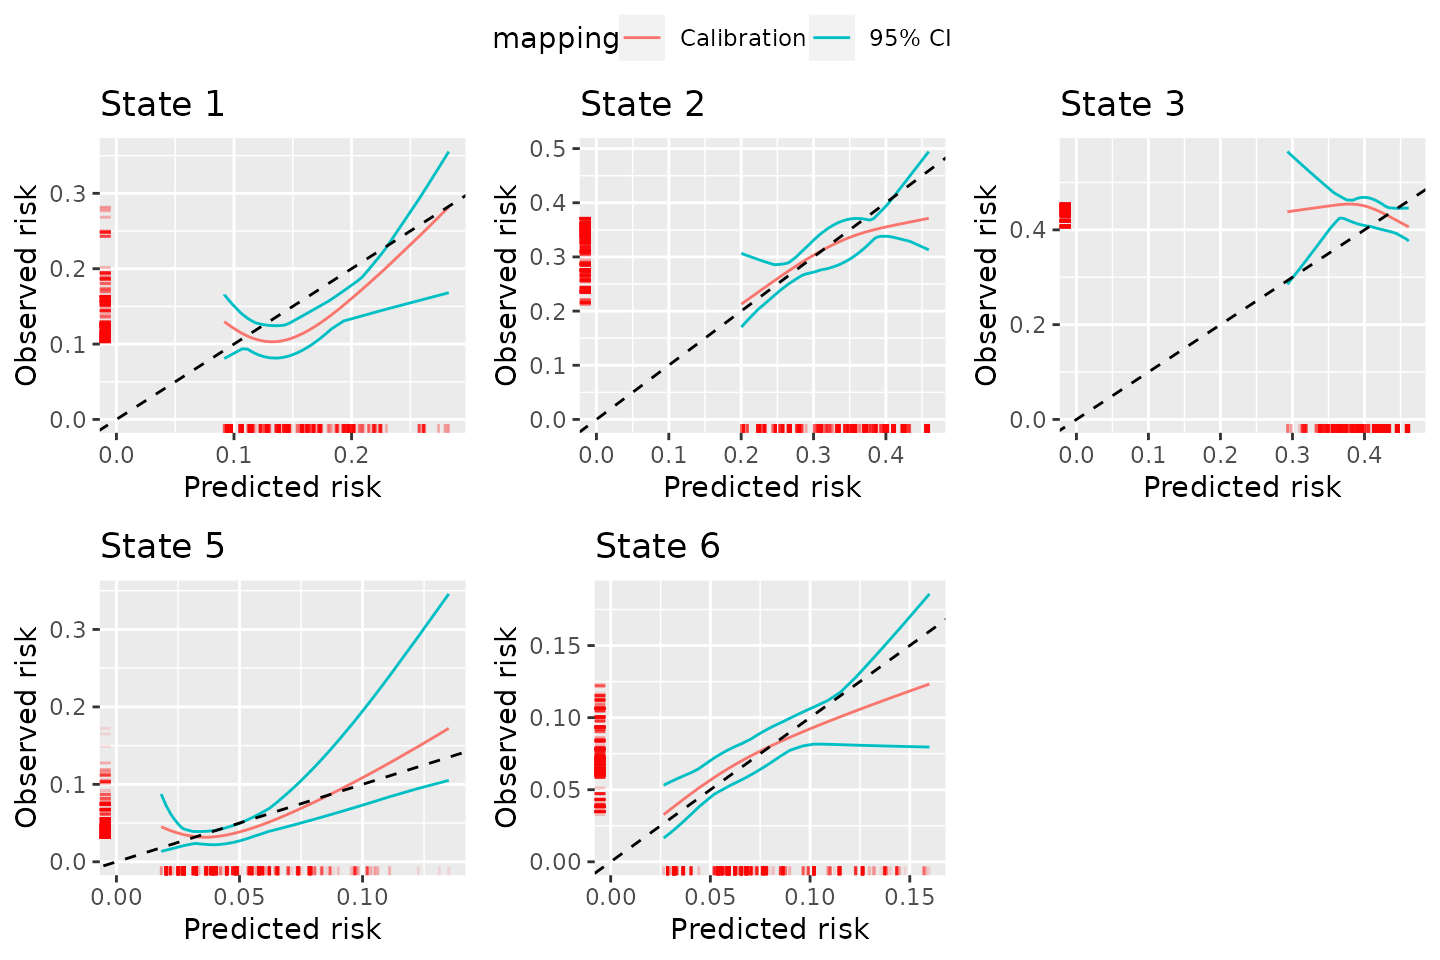
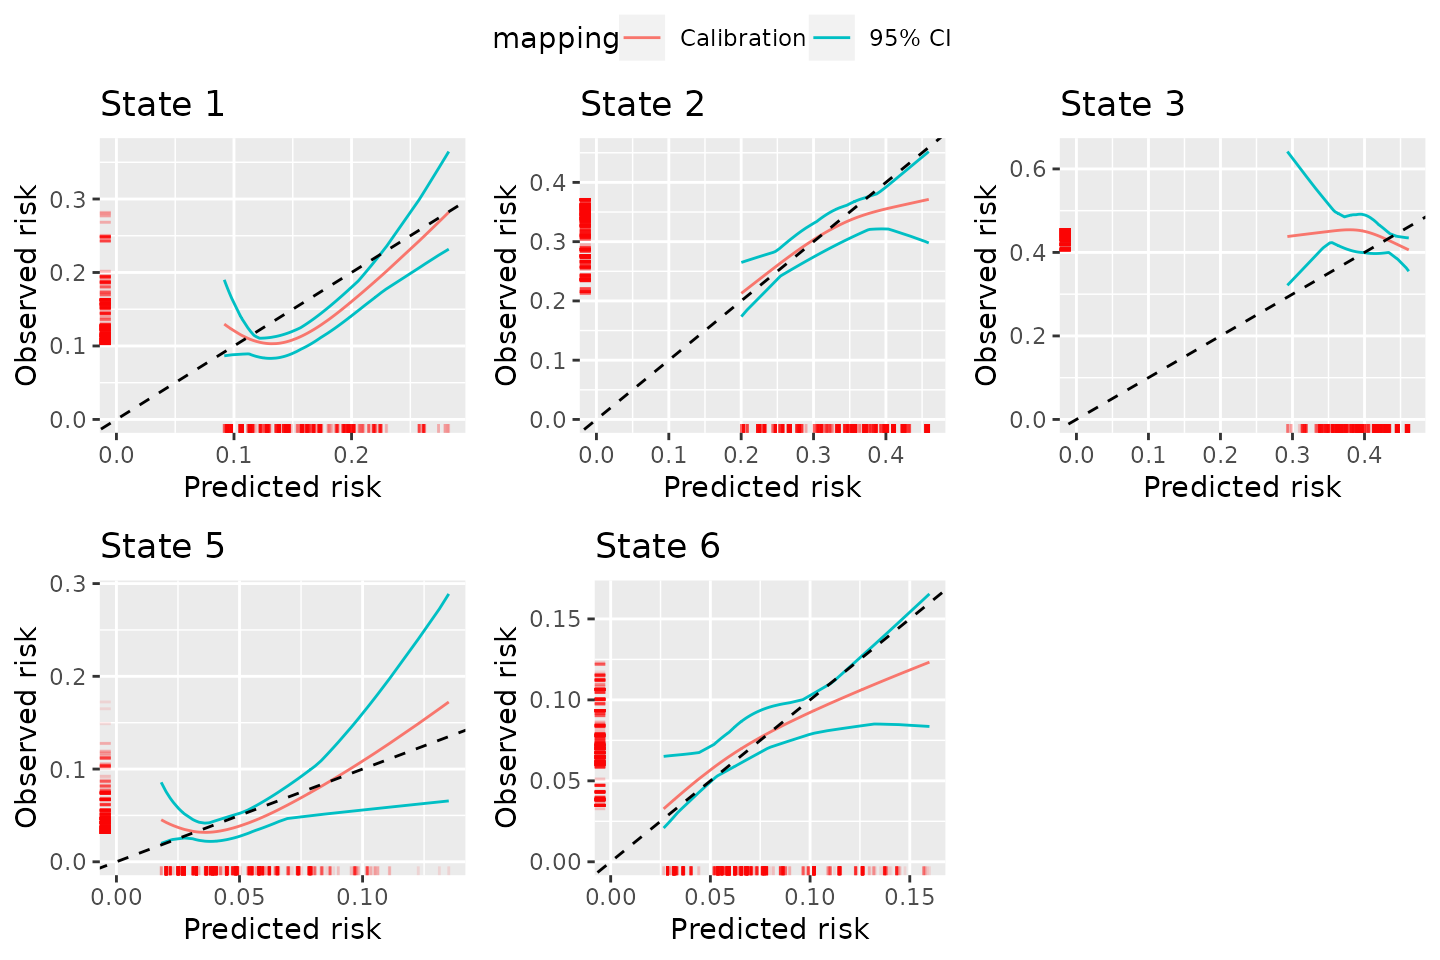
Deploying to gh-pages from @ alexpate30/calibmsm@484a14e93f973eae8050eae07063341bf35f98ed 🚀

diff --git a/reference/calib_blr.html b/reference/calib_blr.html
@@ -267,38 +267,38 @@ in the vignette XXXX.</p>
 <span class="r-out co"><span class="r-pr">#&gt;</span>   .. ..$ id       : int [1:1778] 2 4 5 7 10 13 14 16 18 19 ...</span>
 <span class="r-out co"><span class="r-pr">#&gt;</span>   .. ..$ pred     : num [1:1778] 0.114 0.1384 0.1233 0.0974 0.1137 ...</span>
 <span class="r-out co"><span class="r-pr">#&gt;</span>   .. ..$ obs      : num [1:1778] 0.11 0.104 0.105 0.124 0.11 ...</span>
-<span class="r-out co"><span class="r-pr">#&gt;</span>   .. ..$ obs.lower: num [1:1778] 0.0902 0.0821 0.0858 0.0874 0.0903 ...</span>
-<span class="r-out co"><span class="r-pr">#&gt;</span>   .. ..$ obs.upper: num [1:1778] 0.13 0.127 0.124 0.168 0.131 ...</span>
+<span class="r-out co"><span class="r-pr">#&gt;</span>   .. ..$ obs.lower: num [1:1778] 0.0877 0.0809 0.0866 0.086 0.0876 ...</span>
+<span class="r-out co"><span class="r-pr">#&gt;</span>   .. ..$ obs.upper: num [1:1778] 0.131 0.126 0.124 0.165 0.132 ...</span>
 <span class="r-out co"><span class="r-pr">#&gt;</span>   ..$ state2:'data.frame':	1778 obs. of  5 variables:</span>
 <span class="r-out co"><span class="r-pr">#&gt;</span>   .. ..$ id       : int [1:1778] 2 4 5 7 10 13 14 16 18 19 ...</span>
 <span class="r-out co"><span class="r-pr">#&gt;</span>   .. ..$ pred     : num [1:1778] 0.232 0.184 0.161 0.212 0.232 ...</span>
 <span class="r-out co"><span class="r-pr">#&gt;</span>   .. ..$ obs      : num [1:1778] 0.17 0.186 0.176 0.179 0.17 ...</span>
-<span class="r-out co"><span class="r-pr">#&gt;</span>   .. ..$ obs.lower: num [1:1778] 0.127 0.157 0.141 0.151 0.127 ...</span>
-<span class="r-out co"><span class="r-pr">#&gt;</span>   .. ..$ obs.upper: num [1:1778] 0.221 0.221 0.215 0.209 0.221 ...</span>
+<span class="r-out co"><span class="r-pr">#&gt;</span>   .. ..$ obs.lower: num [1:1778] 0.111 0.149 0.14 0.141 0.111 ...</span>
+<span class="r-out co"><span class="r-pr">#&gt;</span>   .. ..$ obs.upper: num [1:1778] 0.22 0.218 0.213 0.209 0.22 ...</span>
 <span class="r-out co"><span class="r-pr">#&gt;</span>   ..$ state3:'data.frame':	1778 obs. of  5 variables:</span>
 <span class="r-out co"><span class="r-pr">#&gt;</span>   .. ..$ id       : int [1:1778] 2 4 5 7 10 13 14 16 18 19 ...</span>
 <span class="r-out co"><span class="r-pr">#&gt;</span>   .. ..$ pred     : num [1:1778] 0.0844 0.0758 0.0551 0.0615 0.0844 ...</span>
 <span class="r-out co"><span class="r-pr">#&gt;</span>   .. ..$ obs      : num [1:1778] 0.1249 0.1167 0.0919 0.1001 0.1248 ...</span>
-<span class="r-out co"><span class="r-pr">#&gt;</span>   .. ..$ obs.lower: num [1:1778] 0.1029 0.0946 0.0553 0.0681 0.1029 ...</span>
-<span class="r-out co"><span class="r-pr">#&gt;</span>   .. ..$ obs.upper: num [1:1778] 0.16 0.144 0.142 0.139 0.16 ...</span>
+<span class="r-out co"><span class="r-pr">#&gt;</span>   .. ..$ obs.lower: num [1:1778] 0.0942 0.0872 0.0501 0.0657 0.0942 ...</span>
+<span class="r-out co"><span class="r-pr">#&gt;</span>   .. ..$ obs.upper: num [1:1778] 0.157 0.155 0.139 0.14 0.157 ...</span>
 <span class="r-out co"><span class="r-pr">#&gt;</span>   ..$ state4:'data.frame':	1778 obs. of  5 variables:</span>
 <span class="r-out co"><span class="r-pr">#&gt;</span>   .. ..$ id       : int [1:1778] 2 4 5 7 10 13 14 16 18 19 ...</span>
 <span class="r-out co"><span class="r-pr">#&gt;</span>   .. ..$ pred     : num [1:1778] 0.233 0.218 0.183 0.221 0.233 ...</span>
 <span class="r-out co"><span class="r-pr">#&gt;</span>   .. ..$ obs      : num [1:1778] 0.243 0.224 0.185 0.228 0.243 ...</span>
-<span class="r-out co"><span class="r-pr">#&gt;</span>   .. ..$ obs.lower: num [1:1778] 0.2 0.193 0.153 0.196 0.2 ...</span>
-<span class="r-out co"><span class="r-pr">#&gt;</span>   .. ..$ obs.upper: num [1:1778] 0.285 0.254 0.22 0.259 0.285 ...</span>
+<span class="r-out co"><span class="r-pr">#&gt;</span>   .. ..$ obs.lower: num [1:1778] 0.202 0.193 0.156 0.194 0.201 ...</span>
+<span class="r-out co"><span class="r-pr">#&gt;</span>   .. ..$ obs.upper: num [1:1778] 0.282 0.255 0.216 0.26 0.282 ...</span>
 <span class="r-out co"><span class="r-pr">#&gt;</span>   ..$ state5:'data.frame':	1778 obs. of  5 variables:</span>
 <span class="r-out co"><span class="r-pr">#&gt;</span>   .. ..$ id       : int [1:1778] 2 4 5 7 10 13 14 16 18 19 ...</span>
 <span class="r-out co"><span class="r-pr">#&gt;</span>   .. ..$ pred     : num [1:1778] 0.148 0.154 0.143 0.144 0.149 ...</span>
 <span class="r-out co"><span class="r-pr">#&gt;</span>   .. ..$ obs      : num [1:1778] 0.191 0.165 0.222 0.212 0.188 ...</span>
-<span class="r-out co"><span class="r-pr">#&gt;</span>   .. ..$ obs.lower: num [1:1778] 0.165 0.148 0.179 0.175 0.163 ...</span>
-<span class="r-out co"><span class="r-pr">#&gt;</span>   .. ..$ obs.upper: num [1:1778] 0.217 0.187 0.265 0.25 0.213 ...</span>
+<span class="r-out co"><span class="r-pr">#&gt;</span>   .. ..$ obs.lower: num [1:1778] 0.164 0.146 0.181 0.176 0.163 ...</span>
+<span class="r-out co"><span class="r-pr">#&gt;</span>   .. ..$ obs.upper: num [1:1778] 0.226 0.187 0.274 0.258 0.221 ...</span>
 <span class="r-out co"><span class="r-pr">#&gt;</span>   ..$ state6:'data.frame':	1778 obs. of  5 variables:</span>
 <span class="r-out co"><span class="r-pr">#&gt;</span>   .. ..$ id       : int [1:1778] 2 4 5 7 10 13 14 16 18 19 ...</span>
 <span class="r-out co"><span class="r-pr">#&gt;</span>   .. ..$ pred     : num [1:1778] 0.189 0.23 0.335 0.264 0.189 ...</span>
 <span class="r-out co"><span class="r-pr">#&gt;</span>   .. ..$ obs      : num [1:1778] 0.207 0.254 0.316 0.28 0.207 ...</span>
-<span class="r-out co"><span class="r-pr">#&gt;</span>   .. ..$ obs.lower: num [1:1778] 0.184 0.226 0.28 0.254 0.184 ...</span>
-<span class="r-out co"><span class="r-pr">#&gt;</span>   .. ..$ obs.upper: num [1:1778] 0.234 0.278 0.363 0.304 0.234 ...</span>
+<span class="r-out co"><span class="r-pr">#&gt;</span>   .. ..$ obs.lower: num [1:1778] 0.184 0.231 0.277 0.257 0.184 ...</span>
+<span class="r-out co"><span class="r-pr">#&gt;</span>   .. ..$ obs.upper: num [1:1778] 0.228 0.282 0.354 0.305 0.228 ...</span>
 <span class="r-out co"><span class="r-pr">#&gt;</span>  $ metadata:List of 8</span>
 <span class="r-out co"><span class="r-pr">#&gt;</span>   ..$ valid.transitions   : num [1:6] 1 2 3 4 5 6</span>
 <span class="r-out co"><span class="r-pr">#&gt;</span>   ..$ assessed.transitions: num [1:6] 1 2 3 4 5 6</span>

diff --git a/articles/Comparison-with-graphical-calibration-curves-in-competing-risks-setting.html b/articles/Comparison-with-graphical-calibration-curves-in-competing-risks-setting.html
@@ -226,11 +226,11 @@ the pseudo-value approach, implemented through
 <span>                 n.pctls <span class="op">=</span> <span class="fl">9</span>,</span>
 <span>                 CI <span class="op">=</span> <span class="fl">95</span>,</span>
 <span>                 CI.type <span class="op">=</span> <span class="st">"parametric"</span><span class="op">)</span></span>
-<span><span class="co">#&gt; [1] "Calculate pseudo values for state =  1 2023-07-28 21:36:40.164602"</span></span>
-<span><span class="co">#&gt; [1] "Calculate pseudo values for state =  2 2023-07-28 21:42:27.90336"</span></span>
-<span><span class="co">#&gt; [1] "Calculate pseudo values for state =  3 2023-07-28 21:48:03.565275"</span></span>
-<span><span class="co">#&gt; [1] "Calculate pseudo values for state =  5 2023-07-28 21:53:42.897412"</span></span>
-<span><span class="co">#&gt; [1] "Calculate pseudo values for state =  6 2023-07-28 21:59:18.506598"</span></span>
+<span><span class="co">#&gt; [1] "Calculate pseudo values for state =  1 2023-07-31 09:41:01.684037"</span></span>
+<span><span class="co">#&gt; [1] "Calculate pseudo values for state =  2 2023-07-31 09:47:08.088772"</span></span>
+<span><span class="co">#&gt; [1] "Calculate pseudo values for state =  3 2023-07-31 09:52:57.707876"</span></span>
+<span><span class="co">#&gt; [1] "Calculate pseudo values for state =  5 2023-07-31 09:58:54.345537"</span></span>
+<span><span class="co">#&gt; [1] "Calculate pseudo values for state =  6 2023-07-31 10:04:46.89737"</span></span>
 <span></span>
 <span><span class="co">### Turn into plot and print</span></span>
 <span><span class="va">plot.calibmsm.pv</span> <span class="op">&lt;-</span> <span class="fu"><a href="https://rdrr.io/r/graphics/plot.default.html" class="external-link">plot</a></span><span class="op">(</span><span class="va">dat.calib.pv</span>, combine <span class="op">=</span> <span class="cn">TRUE</span>, nrow <span class="op">=</span> <span class="fl">2</span>, ncol <span class="op">=</span> <span class="fl">3</span><span class="op">)</span></span></code></pre></div>
